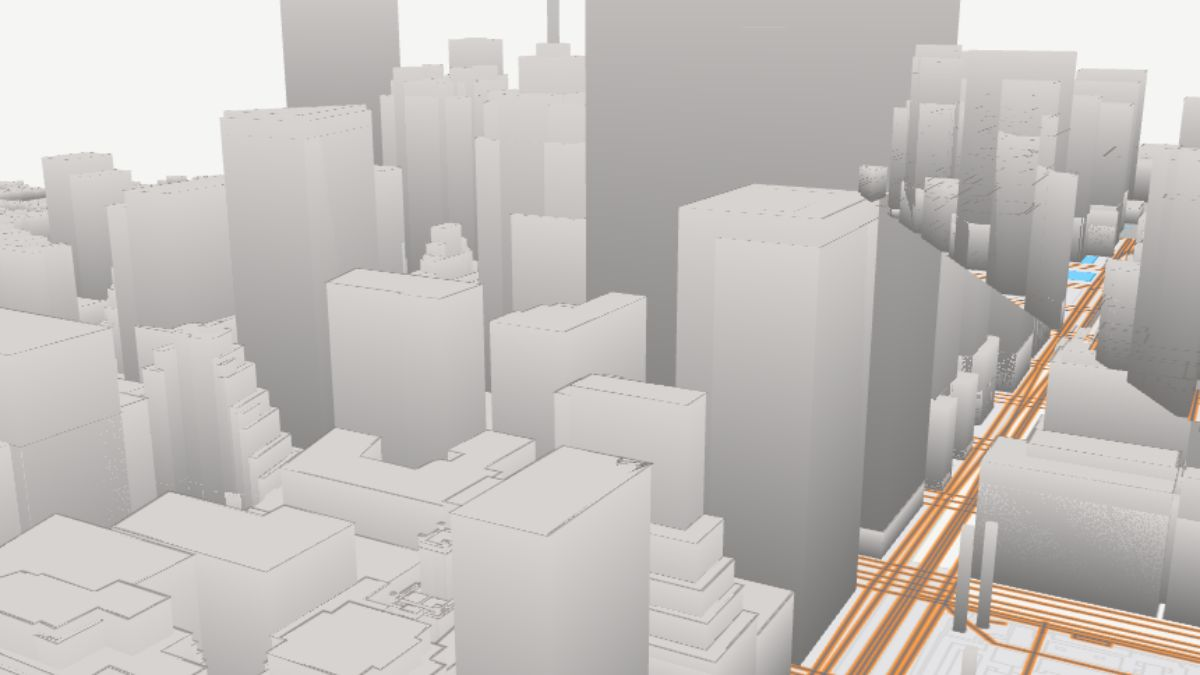
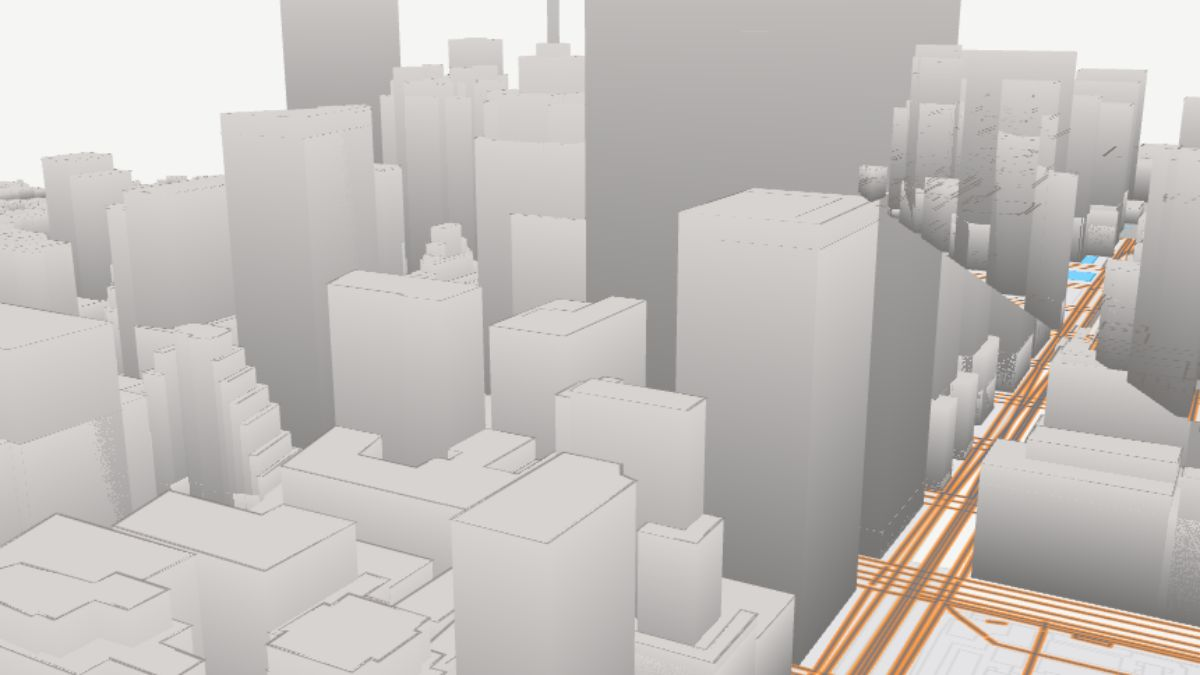
fix(vt-renderer): defer stroke draws until after every fill in the layer
Per-tile interleaving (tile-A fill → tile-A stroke → tile-B fill →
tile-B stroke) clobbers extruded-layer outlines: a building's roof
outline drawn at tile A would lose its color when tile B's wall
fill ran later at the same pixel, because DEPTH_READ_ONLY line
draws don't write depth — the next fill's depth test sees only the
last fill's depth, passes, and overwrites the outline.

User flagged this with the request to "render 3D shapes after all
tiles are loaded" — same root cause described from the visible
end (outlines popping out as adjacent tiles draw).

Fix: collect every tile's stroke draw into a queue during the
fill loop, then run a SECOND loop after every fill in the layer
has written its depth. Both loops walk the same key list and reuse
the same uniform-ring slot offsets recorded in the queue, so per-
tile bind-group setup happens once. After the change:

  * Layer's complete depth buffer is set up before any stroke
    runs → outlines depth-test against the full geometry, not
    just whatever was drawn before the current tile in the loop
  * Strokes that ARE occluded (extruded outline behind a
    foreground wall) fail the LEQUAL test cleanly — no
    intermediate "drawn then overwritten" wasted work
  * Tile iteration order no longer affects the visible result

Smoke: 9 pass / 1 pre-existing vector_categorical fail. Manhattan
z17 pitch=75 + Tokyo z16 pitch=45 captures show consistent outline
behaviour regardless of tile load order.

diff --git a/runtime/src/engine/vector-tile-renderer.ts b/runtime/src/engine/vector-tile-renderer.ts
@@ -2161,6 +2161,13 @@ export class VectorTileRenderer {
     const translucentLines = phase === 'strokes'
     const tileBg = this.tileBgFeature ?? this.tileBgDefault
     if (!tileBg || !this.uniformRing) return
+    // Stroke draws are batched and emitted AFTER every fill in this
+    // pass has written depth, so per-tile outlines depth-test against
+    // the layer's full geometry (not just whatever was drawn before
+    // this tile in the per-tile loop). Without this, an extruded
+    // building's roof outline would get overwritten by a later tile's
+    // wall fill at the same pixel.
+    const strokeQueue: { cached: GPUTile; slotOffset: number }[] = []
     for (let ki = 0; ki < keys.length; ki++) {
       const key = keys[ki]
       // For world copies: allow same key to render at different positions
@@ -2280,14 +2287,19 @@ export class VectorTileRenderer {
         pass.drawIndexed(cached.indexCount)
       }
 
-      // Polygon outlines via SDF line renderer — skipped in 'fills' phase.
-      if (drawStrokes && this.lineRenderer && cached.outlineSegmentCount > 0 && cached.outlineSegmentBindGroup) {
-        this.lineRenderer.drawSegments(pass, currentLineTileBg, cached.outlineSegmentBindGroup, cached.outlineSegmentCount, slotOffset, lineLayerOffset, translucentLines)
-      }
-
-      // Line features via SDF line renderer — skipped in 'fills' phase.
-      if (drawStrokes && this.lineRenderer && cached.lineSegmentCount > 0 && cached.lineSegmentBindGroup) {
-        this.lineRenderer.drawSegments(pass, currentLineTileBg, cached.lineSegmentBindGroup, cached.lineSegmentCount, slotOffset, lineLayerOffset, translucentLines)
+      // Strokes (polygon outlines + line features) deferred to a
+      // SECOND pass after every fill in this layer has written depth.
+      // With per-tile interleaving (fill→stroke→next-tile-fill) the
+      // outline of an earlier tile gets clobbered by a later tile's
+      // fill at coplanar / overlapping pixels — DEPTH_READ_ONLY lines
+      // don't write depth, so subsequent extruded fills run depth-
+      // test against the last fill's depth (not the line's), then
+      // overwrite the outline color. Recording the slot offset here
+      // lets the deferred stroke pass reuse the same uniform slot
+      // without re-doing the per-tile bind-group setup.
+      if (drawStrokes && this.lineRenderer
+          && (cached.outlineSegmentCount > 0 || cached.lineSegmentCount > 0)) {
+        strokeQueue.push({ cached, slotOffset })
       }
 
       const vc = cached.indexCount + cached.lineIndexCount
@@ -2302,6 +2314,24 @@ export class VectorTileRenderer {
       const tz = cached.tileZoom
       if (typeof tz === 'number') {
         this._frameDrawnByZoom.set(tz, (this._frameDrawnByZoom.get(tz) ?? 0) + 1)
+      }
+    }
+    // Second pass: emit every queued stroke draw now that all fills
+    // for this layer have written depth. Outline + line-feature
+    // drawSegments calls run against the layer's complete depth
+    // buffer; with DEPTH_READ_ONLY they don't disturb later layers'
+    // depth tests, but their occlusion against THIS layer's own
+    // 3D geometry is now correct regardless of tile iteration order.
+    if (strokeQueue.length > 0 && this.lineRenderer) {
+      const currentLineTileBg2 = this.tileBgDefault!
+      for (let i = 0; i < strokeQueue.length; i++) {
+        const { cached, slotOffset } = strokeQueue[i]
+        if (cached.outlineSegmentCount > 0 && cached.outlineSegmentBindGroup) {
+          this.lineRenderer.drawSegments(pass, currentLineTileBg2, cached.outlineSegmentBindGroup, cached.outlineSegmentCount, slotOffset, lineLayerOffset, translucentLines)
+        }
+        if (cached.lineSegmentCount > 0 && cached.lineSegmentBindGroup) {
+          this.lineRenderer.drawSegments(pass, currentLineTileBg2, cached.lineSegmentBindGroup, cached.lineSegmentCount, slotOffset, lineLayerOffset, translucentLines)
+        }
       }
     }
     // Emit accumulated per-tile uniforms as one writeBuffer. Still
